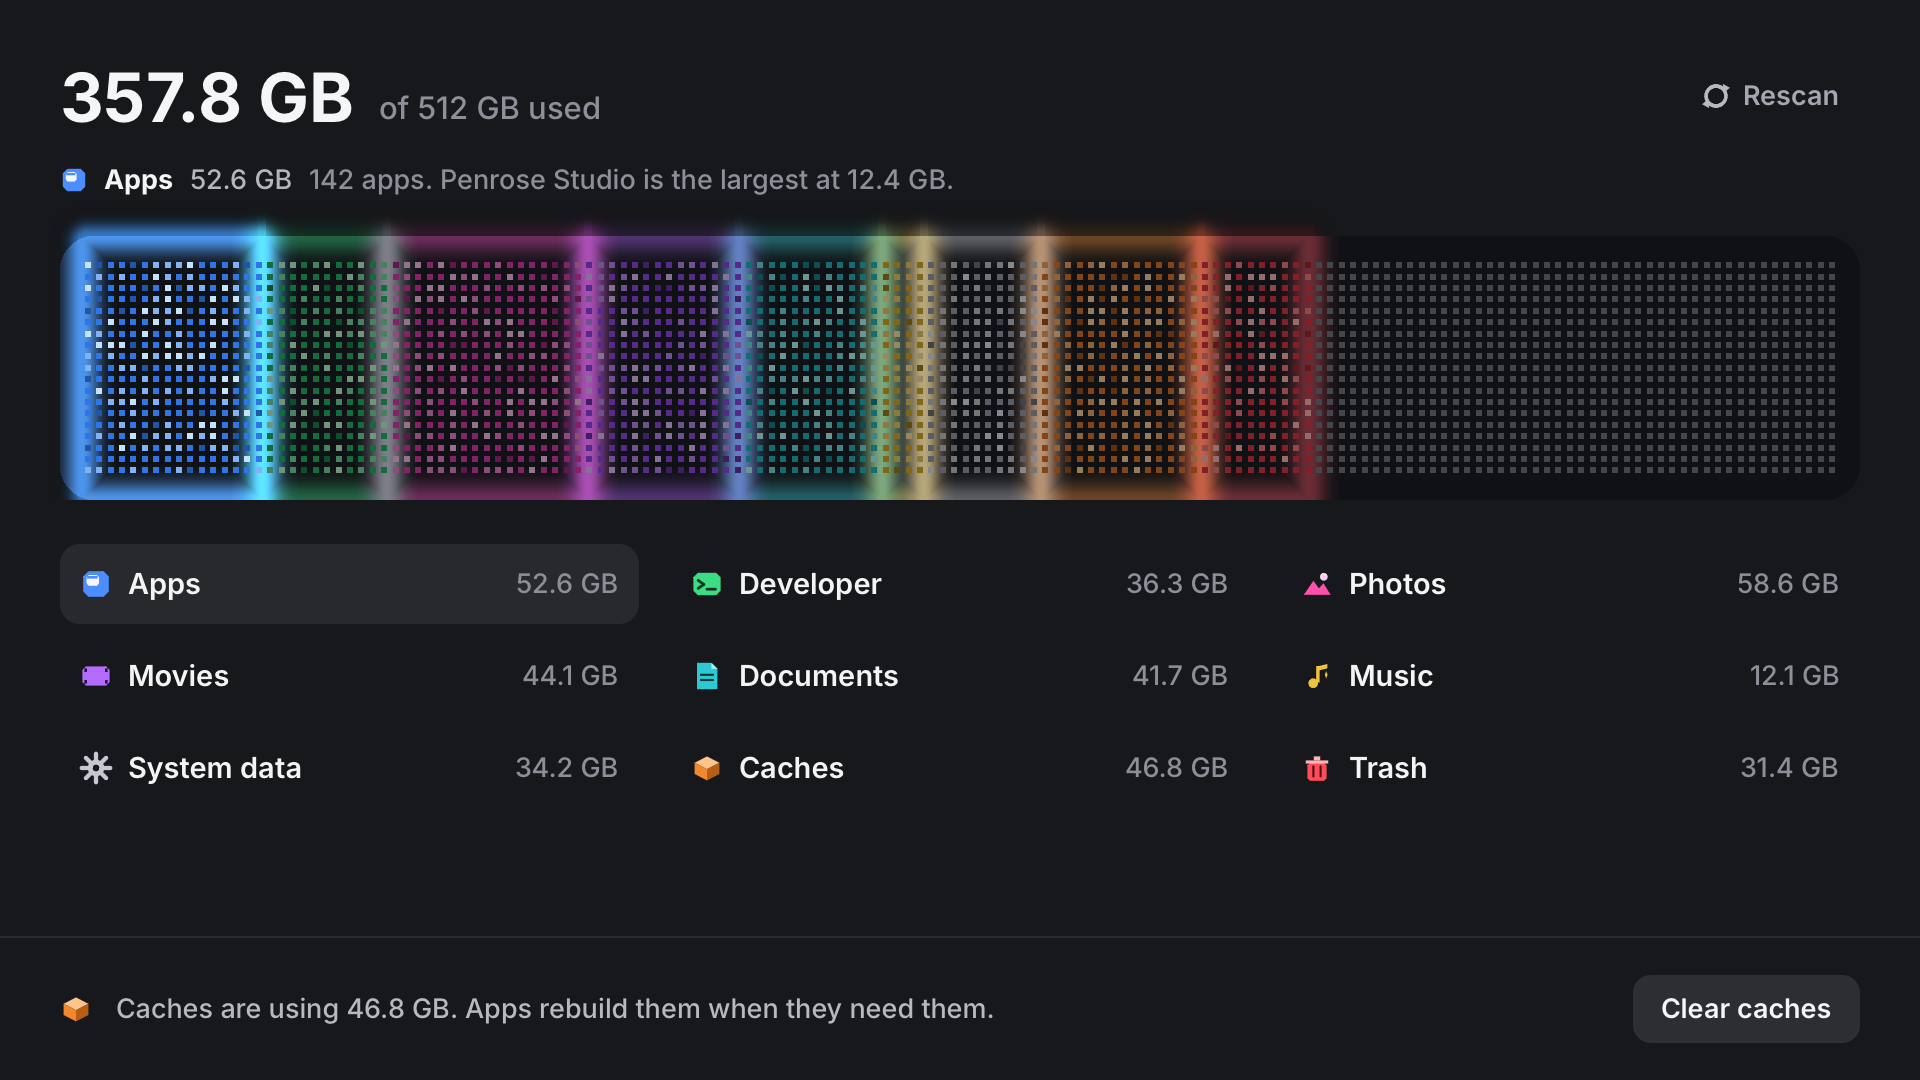
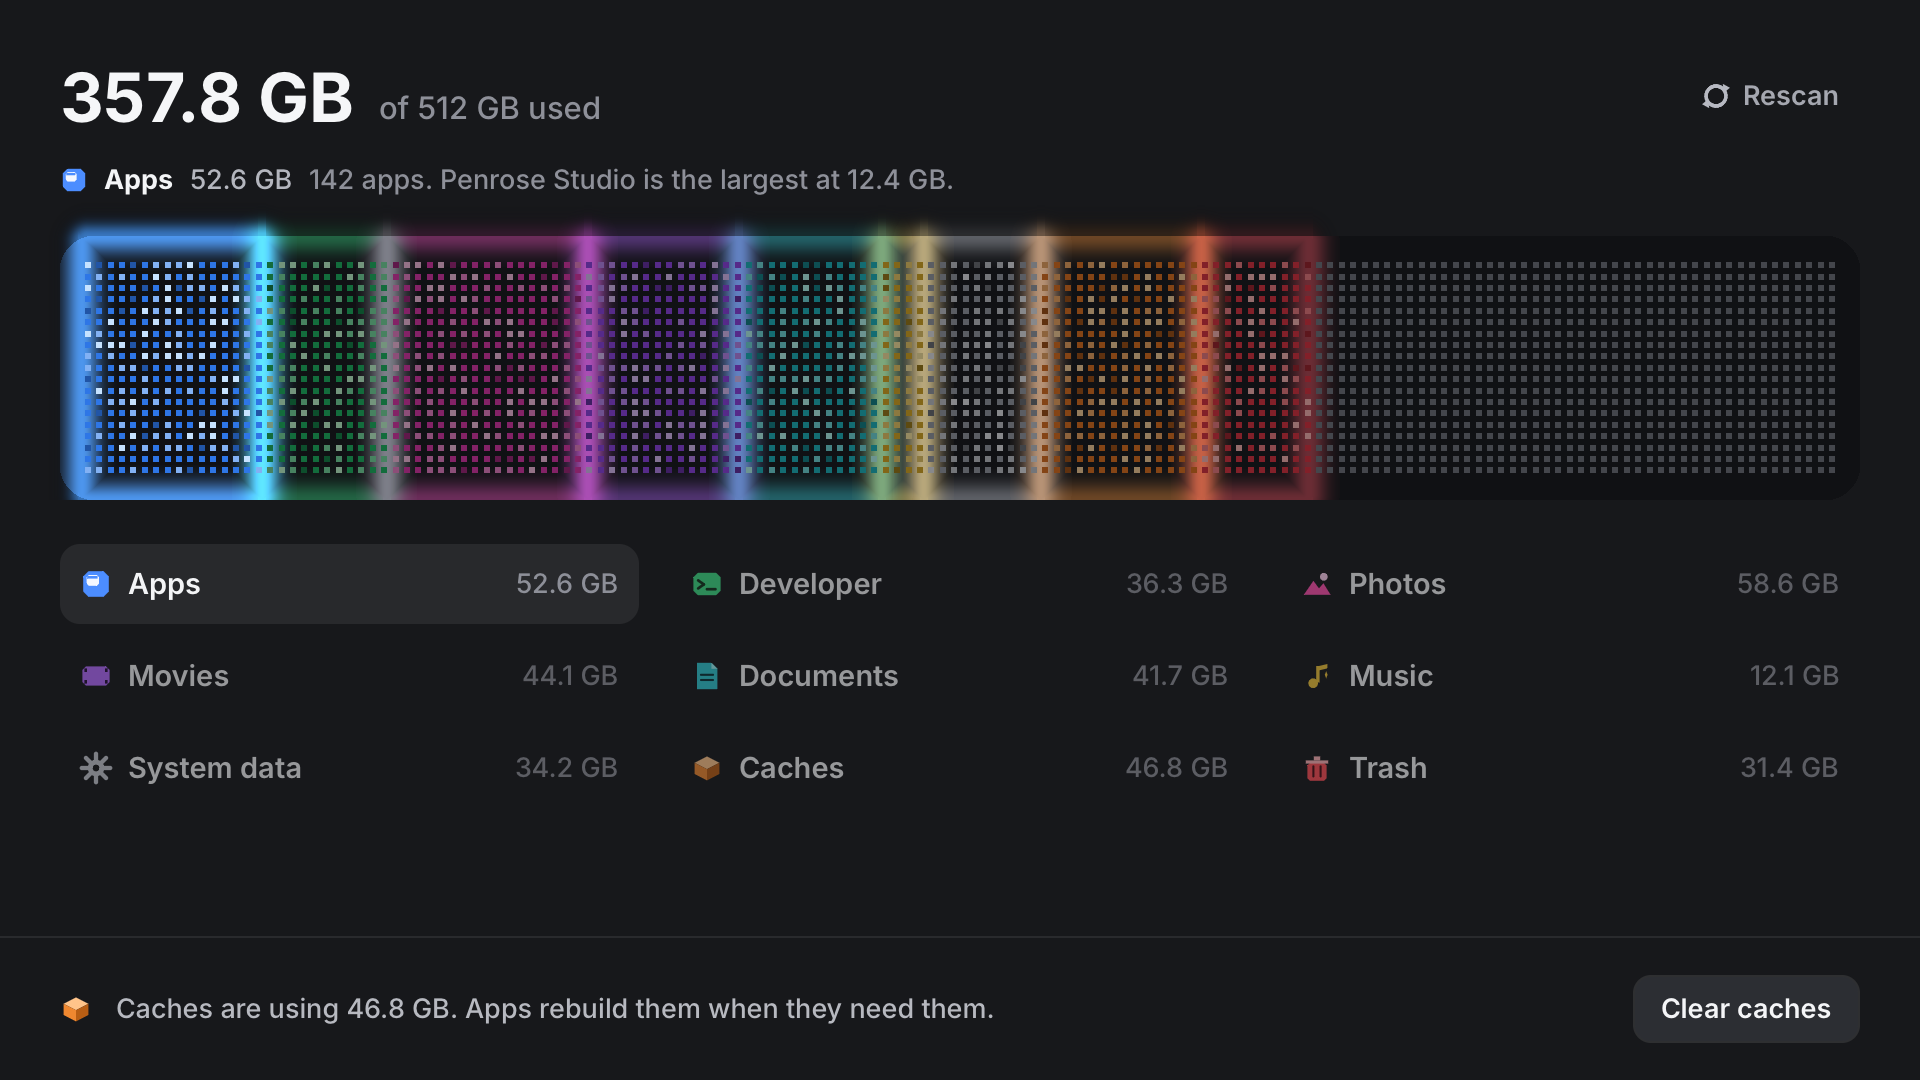
Ease category hover in and out
Legend highlights, row dimming, and bar glow follow a per-category
amount that ease-outs over 180ms and stops requesting frames once settled.

diff --git a/src/model.rs b/src/model.rs
@@ -12,6 +12,8 @@ use crate::scan::{self, Cat, N, Purge, Shared, Snap, Stat};
 
 pub const CARD_W: f32 = 960.0;
 pub const CARD_H: f32 = 540.0;
+/// Hover fades in and out over this long, ease-out.
+const HOVER_SECS: f32 = 0.18;
 
 #[derive(Clone, Debug, PartialEq, Eq)]
 pub enum Readout {
@@ -37,6 +39,11 @@ pub struct State {
     pub live: [f64; N],
     pub capacity: f64,
     pub hover: Option<Cat>,
+    /// Smoothed 0..1 hover for each category. The legend and the bar read this, not the raw pointer.
+    pub hover_amt: [f32; N],
+    hover_from: [f32; N],
+    hover_goal: [f32; N],
+    hover_elapsed: [f32; N],
     pub readout: Readout,
     pub footer: Footer,
     pub confirm: Option<Purge>,
@@ -69,6 +76,10 @@ impl State {
             live: [0.0; N],
             capacity: if demo { demo::CAPACITY } else { 0.0 },
             hover: None,
+            hover_amt: [0.0; N],
+            hover_from: [0.0; N],
+            hover_goal: [0.0; N],
+            hover_elapsed: [0.0; N],
             readout: Readout::Quiet,
             footer: Footer::Scanning,
             confirm: None,
@@ -99,7 +110,12 @@ impl State {
 
     pub fn scene_idle(&mut self) {
         self.pin_scan = Some(99.0);
+        // The still is the rested hover, not the first frames of the fade.
         self.hover = Some(Cat::Apps);
+        self.hover_amt[Cat::Apps.ix()] = 1.0;
+        self.hover_from[Cat::Apps.ix()] = 1.0;
+        self.hover_goal[Cat::Apps.ix()] = 1.0;
+        self.hover_elapsed[Cat::Apps.ix()] = HOVER_SECS;
     }
 
     pub fn scene_clearing(&mut self) {
@@ -136,6 +152,18 @@ pub fn set_hover(s: &mut State, cat: Cat, inside: bool) {
     }
 }
 
+/// Own hover amount, and the strongest other category (what dims this row and its bar segment).
+pub fn hover_pair(s: &State, cat: Cat) -> (f32, f32) {
+    let mine = s.hover_amt[cat.ix()];
+    let mut others = 0.0f32;
+    for (i, v) in s.hover_amt.iter().enumerate() {
+        if i != cat.ix() {
+            others = others.max(*v);
+        }
+    }
+    (mine, others)
+}
+
 pub fn press_rescan(s: &mut State) {
     s.scan_epoch = s.t;
     s.pin_scan = None;
@@ -143,6 +171,10 @@ pub fn press_rescan(s: &mut State) {
     s.trash_origin = None;
     s.settled = false;
     s.hover = None;
+    s.hover_amt = [0.0; N];
+    s.hover_from = [0.0; N];
+    s.hover_goal = [0.0; N];
+    s.hover_elapsed = [0.0; N];
     s.confirm = None;
     s.notice = None;
     s.particles.clear();
@@ -257,16 +289,50 @@ pub fn poll(s: &mut State, t: f64, tx: &mut Tx) -> bool {
     };
     let edges = bar::edges(&s.live, s.capacity);
     bar::advance(&mut s.particles, &mut s.prev_edges, &edges, dissolving, dt as f32);
-    let hover = s.hover.map(|c| c.ix());
+    let hover_moving = step_hover(s, dt as f32);
     bar::render(
         &s.pixels,
         &mut s.sig,
-        &bar::Input { bytes: &s.live, capacity: s.capacity, hover, scanning: s.scanning, particles: &s.particles },
+        &bar::Input { bytes: &s.live, capacity: s.capacity, hover: &s.hover_amt, scanning: s.scanning, particles: &s.particles },
     );
 
     let clearing = clear_age.is_some_and(|age| age < demo::CLEAR_DUR + 0.15);
     let emptying = trash_age.is_some_and(|age| age < demo::CLEAR_DUR + 0.15);
-    s.scanning || clearing || emptying || !s.particles.is_empty() || drift || (!s.demo && !s.real_done)
+    s.scanning || clearing || emptying || !s.particles.is_empty() || drift || hover_moving || (!s.demo && !s.real_done)
+}
+
+/// Ease each category toward 1 while the pointer is inside it and toward 0 after it leaves.
+/// Retargeting mid-fade starts from the value already on screen. Returns whether any fade is still moving.
+fn step_hover(s: &mut State, dt: f32) -> bool {
+    let mut moving = false;
+    for i in 0..N {
+        let goal = if s.hover == Some(Cat::ALL[i]) { 1.0 } else { 0.0 };
+        if (goal - s.hover_goal[i]).abs() > 0.001 {
+            s.hover_from[i] = s.hover_amt[i];
+            s.hover_elapsed[i] = 0.0;
+            s.hover_goal[i] = goal;
+        }
+        if (s.hover_amt[i] - s.hover_goal[i]).abs() <= 0.001 {
+            s.hover_amt[i] = s.hover_goal[i];
+            continue;
+        }
+        s.hover_elapsed[i] += dt;
+        let u = ease_out((s.hover_elapsed[i] / HOVER_SECS).clamp(0.0, 1.0));
+        s.hover_amt[i] = s.hover_from[i] + (s.hover_goal[i] - s.hover_from[i]) * u;
+        if s.hover_elapsed[i] >= HOVER_SECS {
+            s.hover_amt[i] = s.hover_goal[i];
+        }
+        if (s.hover_amt[i] - s.hover_goal[i]).abs() > 0.001 {
+            moving = true;
+        }
+    }
+    moving
+}
+
+/// Ease-out quadratic: fast at the start, settled at the end.
+fn ease_out(t: f32) -> f32 {
+    let t = t.clamp(0.0, 1.0);
+    1.0 - (1.0 - t) * (1.0 - t)
 }
 
 fn apply_real(s: &mut State, snap: &Snap, clear_age: Option<f64>, trash_age: Option<f64>, dt: f64, drift: &mut bool) {
@@ -353,4 +419,41 @@ fn readout(s: &State, scan_t: f64, clear_age: Option<f64>, trash_age: Option<f64
         return Readout::Emptying("~/.Trash".into());
     }
     if s.hover.is_some() { Readout::Hover } else { Readout::Quiet }
+}
+
+#[cfg(test)]
+mod tests {
+    use super::*;
+
+    #[test]
+    fn hover_eases_out_over_about_180ms_and_settles() {
+        let mut s = State::new();
+        s.hover = Some(Cat::Apps);
+        assert!(step_hover(&mut s, 0.0), "a new hover keeps frames coming");
+        assert!(s.hover_amt[Cat::Apps.ix()] < 0.01);
+
+        assert!(step_hover(&mut s, 0.09));
+        let mid = s.hover_amt[Cat::Apps.ix()];
+        // Ease-out is ahead of a straight line (0.5) and not finished yet.
+        assert!(mid > 0.65 && mid < 0.9, "mid fade {mid}");
+
+        let mut moving = true;
+        for _ in 0..4 {
+            moving = step_hover(&mut s, 0.05);
+        }
+        assert!(!moving);
+        assert!((s.hover_amt[Cat::Apps.ix()] - 1.0).abs() < 1e-3);
+        assert!(s.hover_amt[Cat::Photos.ix()] < 1e-3);
+
+        s.hover = None;
+        assert!(step_hover(&mut s, 0.0));
+        assert!((s.hover_amt[Cat::Apps.ix()] - 1.0).abs() < 1e-3, "leave starts from the current value");
+        assert!(!step_hover(&mut s, HOVER_SECS));
+        assert!(s.hover_amt[Cat::Apps.ix()] < 1e-3);
+
+        s.hover = Some(Cat::Photos);
+        let _ = step_hover(&mut s, 0.04);
+        let photos = s.hover_amt[Cat::Photos.ix()];
+        assert!(photos > 0.2 && photos < 1.0, "enter fades in, {photos}");
+    }
 }

diff --git a/src/bar.rs b/src/bar.rs
@@ -141,7 +141,8 @@ fn spawn(parts: &mut Vec<Particle>, x0: f32, x1: f32, color: [u8; 3]) {
 pub struct Input<'a> {
     pub bytes: &'a [f64; N],
     pub capacity: f64,
-    pub hover: Option<usize>,
+    /// Per-category hover, 0 at rest and 1 fully under the pointer. Neighbours dim by the strongest other value.
+    pub hover: &'a [f32; N],
     pub scanning: bool,
     pub particles: &'a [Particle],
 }
@@ -163,7 +164,9 @@ fn signature(input: &Input<'_>) -> u64 {
         mix(&mut h, (*b / 1.0e7) as u64);
     }
     mix(&mut h, (input.capacity / 1.0e9) as u64);
-    mix(&mut h, input.hover.unwrap_or(64) as u64);
+    for v in input.hover {
+        mix(&mut h, (*v * 1000.0).round() as u64);
+    }
     mix(&mut h, input.scanning as u64);
     mix(&mut h, input.particles.len() as u64);
     for p in input.particles.iter().step_by(2) {
@@ -186,8 +189,8 @@ fn raster(input: &Input<'_>) -> (u32, u32, Vec<u8>) {
         if edge.w < 0.8 {
             continue;
         }
-        let dim = input.hover.is_some_and(|h| h != i);
-        paint_glow(&mut buf, w, h, *edge, TONE[i].glow, if dim { 0.42 } else { 1.0 });
+        let dim = others(input.hover, i);
+        paint_glow(&mut buf, w, h, *edge, TONE[i].glow, lerp(1.0, 0.42, dim));
     }
     if input.scanning {
         let frontier = edges.iter().fold(INSET, |acc, e| if e.w > 0.4 { e.x + e.w } else { acc });
@@ -302,9 +305,7 @@ fn paint_cells(buf: &mut [u8], w: u32, h: u32, g: &Grid, edges: &[Edge; N], inpu
                 } else {
                     tone.base
                 };
-                if input.hover.is_some_and(|hv| hv != i) {
-                    bright = 0.58;
-                }
+                bright = lerp(1.0, 0.58, others(input.hover, i));
                 if input.scanning {
                     let dist = frontier - cx;
                     if (0.0..18.0).contains(&dist) {
@@ -332,6 +333,20 @@ fn paint_particles(buf: &mut [u8], w: u32, h: u32, parts: &[Particle]) {
             add_glow(buf, w, bx.round() as i32, by.round() as i32, p.color, p.life * 0.45);
         }
     }
+}
+
+fn others(hover: &[f32; N], index: usize) -> f32 {
+    let mut max = 0.0f32;
+    for (i, v) in hover.iter().enumerate() {
+        if i != index {
+            max = max.max(*v);
+        }
+    }
+    max.clamp(0.0, 1.0)
+}
+
+fn lerp(a: f32, b: f32, t: f32) -> f32 {
+    a + (b - a) * t.clamp(0.0, 1.0)
 }
 
 fn cat_at(edges: &[Edge; N], x: f32) -> Option<usize> {
@@ -438,7 +453,9 @@ mod tests {
     #[test]
     fn cells_colour_the_used_prefix_and_leave_free_space_dim() {
         let bytes = demo::bytes(demo::SCAN_END, None, None, false);
-        let (w, h, buf) = raster(&Input { bytes: &bytes, capacity: CAPACITY, hover: Some(Cat::Apps.ix()), scanning: false, particles: &[] });
+        let mut hover = [0.0; N];
+        hover[Cat::Apps.ix()] = 1.0;
+        let (w, h, buf) = raster(&Input { bytes: &bytes, capacity: CAPACITY, hover: &hover, scanning: false, particles: &[] });
         assert!(w > 100 && h > 100);
         let sample = |lx: f32, ly: f32| {
             let (x, y) = buf_xy(lx, ly);

diff --git a/src/ui.rs b/src/ui.rs
@@ -141,15 +141,18 @@ fn legend(s: &State) -> El {
 }
 
 fn cell(s: &State, cat: Cat) -> El {
-    let on = s.hover == Some(cat);
+    let (mine, others) = model::hover_pair(s, cat);
+    // Other rows fade while this one's highlight eases in. A hair of fill keeps the row hittable at rest.
+    let bg = 0.001 + 0.074 * mine;
+    let fade = 1.0 - 0.42 * others;
     row().key(format!("cat-{}", cat.key())).h(40.0).px(10.0).gap(8.0).center_y().radius(10.0)
-        .fill(if on { ca(0xffffff, 0.075) } else { ca(0xffffff, 0.001) })
+        .fill(ca(0xffffff, bg))
         .cursor(Cursor::Pointer)
         .on_hover_change(move |st: &mut State, inside, _| model::set_hover(st, cat, inside))
-        .child(icons::category(cat, 16.0))
-        .child(label(cat.name(), 14.5, 600.0, 0xf3f4f6))
+        .child(icons::category(cat, 16.0).opacity(fade))
+        .child(label(cat.name(), 14.5, 600.0, 0xf3f4f6).opacity(fade))
         .child(spacer())
-        .child(label(format!("{} GB", demo::fmt_gb(s.live[cat.ix()])), 13.5, 500.0, 0x8d8f98))
+        .child(label(format!("{} GB", demo::fmt_gb(s.live[cat.ix()])), 13.5, 500.0, 0x8d8f98).opacity(fade))
 }
 
 fn footer(s: &State) -> El {
